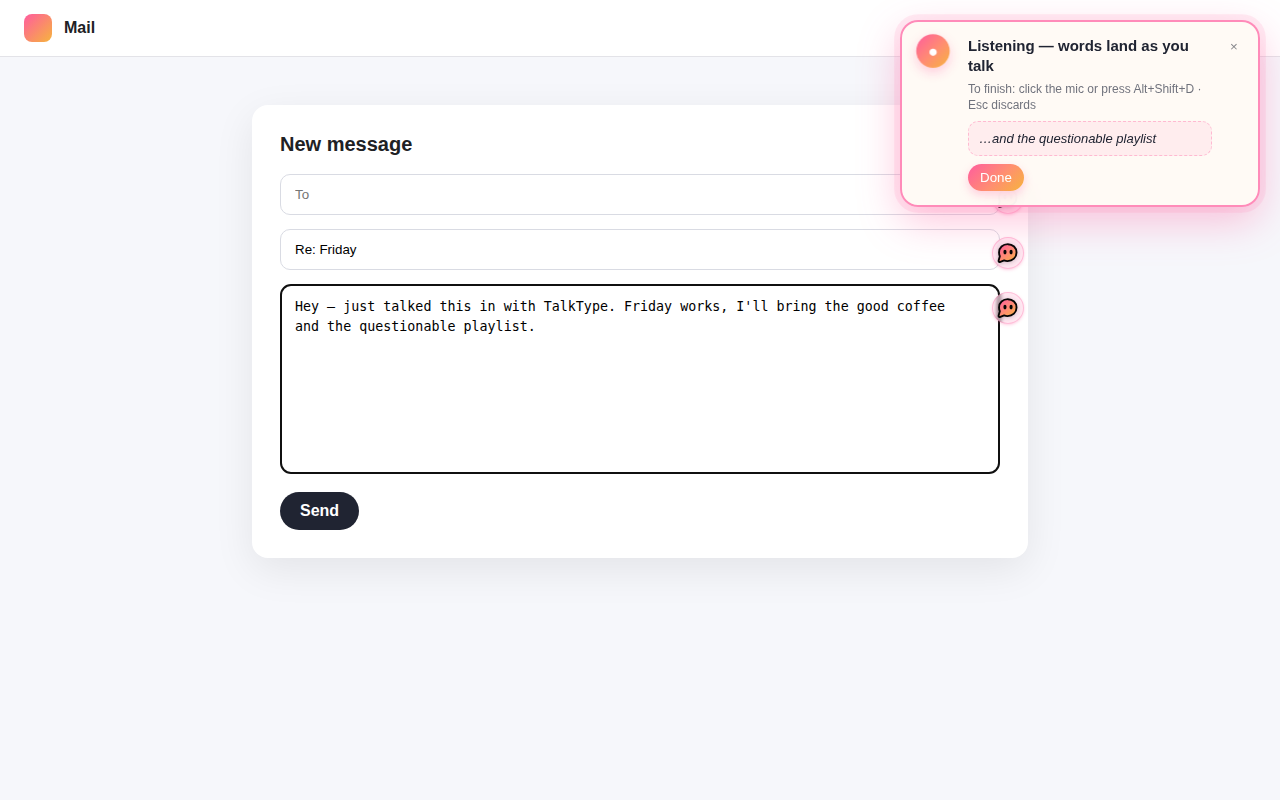
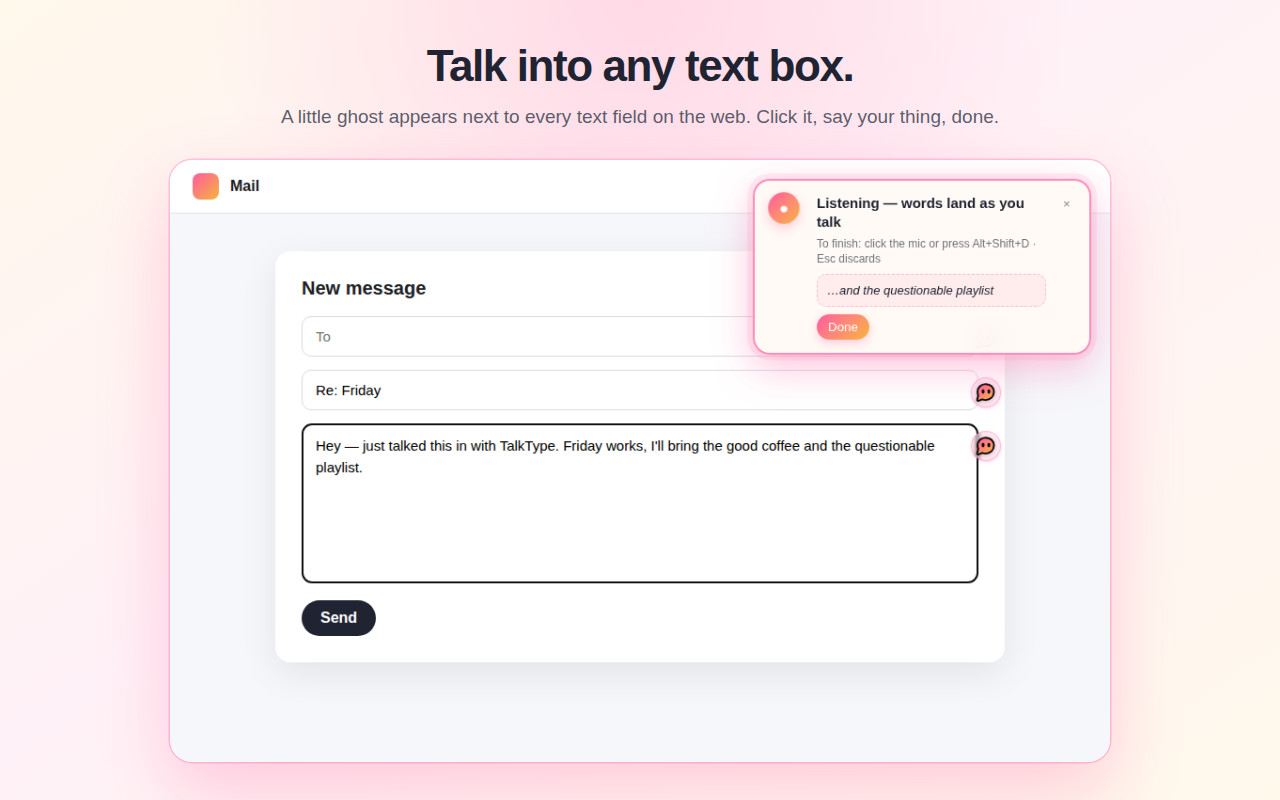
docs: 📸 full marketing kit — captioned store screenshots, promo tiles, OG image, website kit
- scripts/screenshots.mjs now generates every asset from the live UI:
  five captioned 1280×800 store screenshots (one per selling point),
  small + marquee promo tiles, an OpenGraph image for
  talktype.app/extension, and a GitHub social preview.
- store/WEBSITE_KIT.md: <head> meta + OG/Twitter tags, JSON-LD, landing
  page copy (hero, three beats, feature strip, trust line, CTA), alt text.
  Paste-ready for the webapp repo.
- README leads with the inline screenshot; CHROME_WEB_STORE.md lists the
  assets in upload order.

Claude-Session: https://claude.ai/code/session_019wLFHxVW1tuRojMYzmUkSE

diff --git a/store/WEBSITE_KIT.md b/store/WEBSITE_KIT.md
@@ -1,0 +1,102 @@
+# Website kit — talktype.app/extension
+
+Everything the landing page and the privacy page need. Assets referenced here live in this folder; copy them into the webapp repo's static dir.
+
+## Files
+
+| File | Size | Use |
+|---|---|---|
+| `og-image.png` | 1200×630 | `og:image` / `twitter:image` for talktype.app/extension |
+| `github-social.png` | 1280×640 | GitHub → repo Settings → Social preview |
+| `promo-marquee.png` | 1400×560 | Store marquee tile; also works as a landing page hero band |
+| `screenshot-1..5.png` | 1280×800 | Store screenshots; reuse on the landing page as a feature strip |
+| `../src/icons/ghost/ghost-512.png` | 512 | Favicon / apple-touch-icon source |
+
+## `<head>` for talktype.app/extension
+
+```html
+<title>TalkType for Chrome — talk into any text box</title>
+<meta name="description" content="Voice to text in any text box on the web. Zero setup, or bring your own key for personality styles, live streaming, or fully offline transcription. No account, no server in the middle.">
+<link rel="canonical" href="https://talktype.app/extension">
+
+<meta property="og:type" content="website">
+<meta property="og:site_name" content="TalkType">
+<meta property="og:title" content="TalkType for Chrome — talk into any text box">
+<meta property="og:description" content="Say it messy, get it clean. Voice to text anywhere on the web. Works the second you install; no account, no server in the middle.">
+<meta property="og:url" content="https://talktype.app/extension">
+<meta property="og:image" content="https://talktype.app/og/extension.png">
+<meta property="og:image:width" content="1200">
+<meta property="og:image:height" content="630">
+<meta property="og:image:alt" content="The TalkType ghost next to the words: Say it messy, get it clean. Voice to text in any text box.">
+
+<meta name="twitter:card" content="summary_large_image">
+<meta name="twitter:title" content="TalkType for Chrome — talk into any text box">
+<meta name="twitter:description" content="Say it messy, get it clean. Voice to text anywhere on the web. No account, no server in the middle.">
+<meta name="twitter:image" content="https://talktype.app/og/extension.png">
+
+<meta name="theme-color" content="#fff8eb">
+```
+
+Structured data (optional, helps the Chrome listing and search snippets):
+
+```html
+<script type="application/ld+json">
+{
+  "@context": "https://schema.org",
+  "@type": "SoftwareApplication",
+  "name": "TalkType for Chrome",
+  "applicationCategory": "BrowserApplication",
+  "operatingSystem": "Chrome",
+  "offers": { "@type": "Offer", "price": "0", "priceCurrency": "USD" },
+  "description": "Voice to text in any text box on the web. Zero setup, or bring your own key for personality styles, live streaming, or fully offline transcription.",
+  "url": "https://talktype.app/extension",
+  "author": { "@type": "Person", "name": "Pablo Murdoch" }
+}
+</script>
+```
+
+## Landing page copy
+
+**Hero**
+
+> # Talk into any text box.
+> Say it messy, get it clean. A little ghost appears next to every text field on the web. Click it, say your thing, it lands where your cursor is.
+>
+> [Add to Chrome — it's free]   _No account. Works the second you install._
+
+**Three beats** (icons: bolt / cloud / lock)
+
+> **Zero setup.** Install, click the ghost, talk. Chrome's built-in recognition kicks in with nothing to configure.
+>
+> **Your key, your styles.** Plug in a free Gemini key for six personality styles, or Deepgram for words that stream in as you talk. Keys stay on your device.
+>
+> **Or fully private.** Whisper runs inside Chrome. One download, then your voice never leaves your machine.
+
+**Feature strip** (use the five store screenshots, in order, with these one-liners)
+
+1. Talk into any text box. — Gmail, Notion, Slack, Discord, Reddit, ChatGPT, comment boxes, forms.
+2. One button. Any text box. — Or Alt+Shift+D from the keyboard. Esc throws it away.
+3. Four engines. Your call. — Quick, Cloud, Live, Private. Switch any time.
+4. Six personalities. Or bring your own. — Clean & Accurate for work. Surly Pirate for Slack.
+5. No account. No server in the middle. — No analytics, no telemetry. Private mode keeps every word on your machine.
+
+**Trust line** (above the fold, small)
+
+> No accounts. No analytics. No server in the middle. [Privacy policy]
+
+**Footer CTA**
+
+> ## Go talk.
+> [Add to Chrome]   [Source on GitHub]
+
+## Privacy page
+
+Publish `../PRIVACY.md` verbatim at `https://talktype.app/extension/privacy`. The store listing and the extension's Settings page both link there.
+
+## Alt text for screenshots
+
+1. "A mail compose window with the TalkType ghost button beside each text field and a listening toast in the corner."
+2. "The TalkType popup: a Start talking button, an engine chip, the keyboard shortcut, and a settings chip."
+3. "Four engine tiles: Quick, Cloud, Live, Private."
+4. "A grid of output styles: Clean & Accurate, Surly Pirate, L33t Sp34k, Sparkle Pop, Code Whisperer, Quill & Ink, Bring your own."
+5. "The engine picker with the headline: No account. No server in the middle."

diff --git a/README.md b/README.md
@@ -4,7 +4,7 @@ Talk into any text box on the web. Click the ghost, say your thing, done.
 
 TalkType is a Chrome extension that drops a mic button next to every text field it finds — Gmail, Slack, Notion, Discord, Reddit, ChatGPT, whatever. Hit record, speak, and the words land right where your cursor is. No overwriting, no account, no server in the middle.
 
-<img src="src/icons/ghost/ghost-128.png" width="96" alt="TalkType ghost">
+<img src="store/screenshot-1-inline.png" width="800" alt="A mail compose window with the TalkType ghost button beside each text field and a listening toast in the corner.">
 
 ## Four engines, your call
 
@@ -43,7 +43,7 @@ Keys live only in Chrome's local storage on your device and are sent only to the
 
 ## Install
 
-**From the Chrome Web Store:** coming soon — see [talktype.app](https://talktype.app).
+**From the Chrome Web Store:** coming soon — see [talktype.app/extension](https://talktype.app/extension).
 
 **From source:**
 
@@ -77,7 +77,7 @@ src/
   styles.css           Injected styles for the mic button
   icons/ghost/         Toolbar + store icons
 scripts/package.sh     Zip src/ for the Web Store
-store/                 Promo tile + screenshots
+store/                 Store screenshots, promo tiles, OG image, website kit
 PRIVACY.md             Privacy policy text for talktype.app/extension/privacy
 CHROME_WEB_STORE.md    Listing copy, permission justifications, submission checklist
 ```
@@ -97,6 +97,7 @@ No build step. No bundler. Vanilla JS all the way through.
 
 - Load `src` unpacked and iterate; there's no build
 - `./scripts/package.sh` produces `dist/talktype-extension-<version>.zip`
+- `node scripts/screenshots.mjs` regenerates every image in `store/` from the live UI (needs Playwright)
 - `node scripts/e2e.mjs` drives the extension in headless Chromium with a fake mic and a stubbed provider: shortcut start/stop, Esc discard, inline mic click, popup insert. Needs Playwright.
 - The providers themselves (Gemini, Deepgram, the offline model download) still need a manual pass in real Chrome with a real key
 

diff --git a/CHROME_WEB_STORE.md b/CHROME_WEB_STORE.md
@@ -49,8 +49,16 @@ https://talktype.app
 ```
 
 **Icon:** `src/icons/ghost/ghost-128.png`
-**Small promo tile (440×280):** `store/promo-small-440x280.png`
-**Screenshots (1280×800):** `store/screenshot-*.png` — regenerate with `node scripts/screenshots.mjs` (see below).
+**Small promo tile (440×280):** `store/promo-small.png`
+**Marquee promo tile (1400×560):** `store/promo-marquee.png`
+**Screenshots (1280×800), in this order:**
+1. `store/screenshot-1-inline.png` — Talk into any text box
+2. `store/screenshot-2-popup.png` — One button
+3. `store/screenshot-3-engines.png` — Four engines
+4. `store/screenshot-4-styles.png` — Six personalities
+5. `store/screenshot-5-private.png` — No account, no server
+
+Regenerate everything with `node scripts/screenshots.mjs`. Web assets (OG image, GitHub social preview, meta tags, landing copy) are in `store/WEBSITE_KIT.md`.
 
 ## Privacy tab
 
